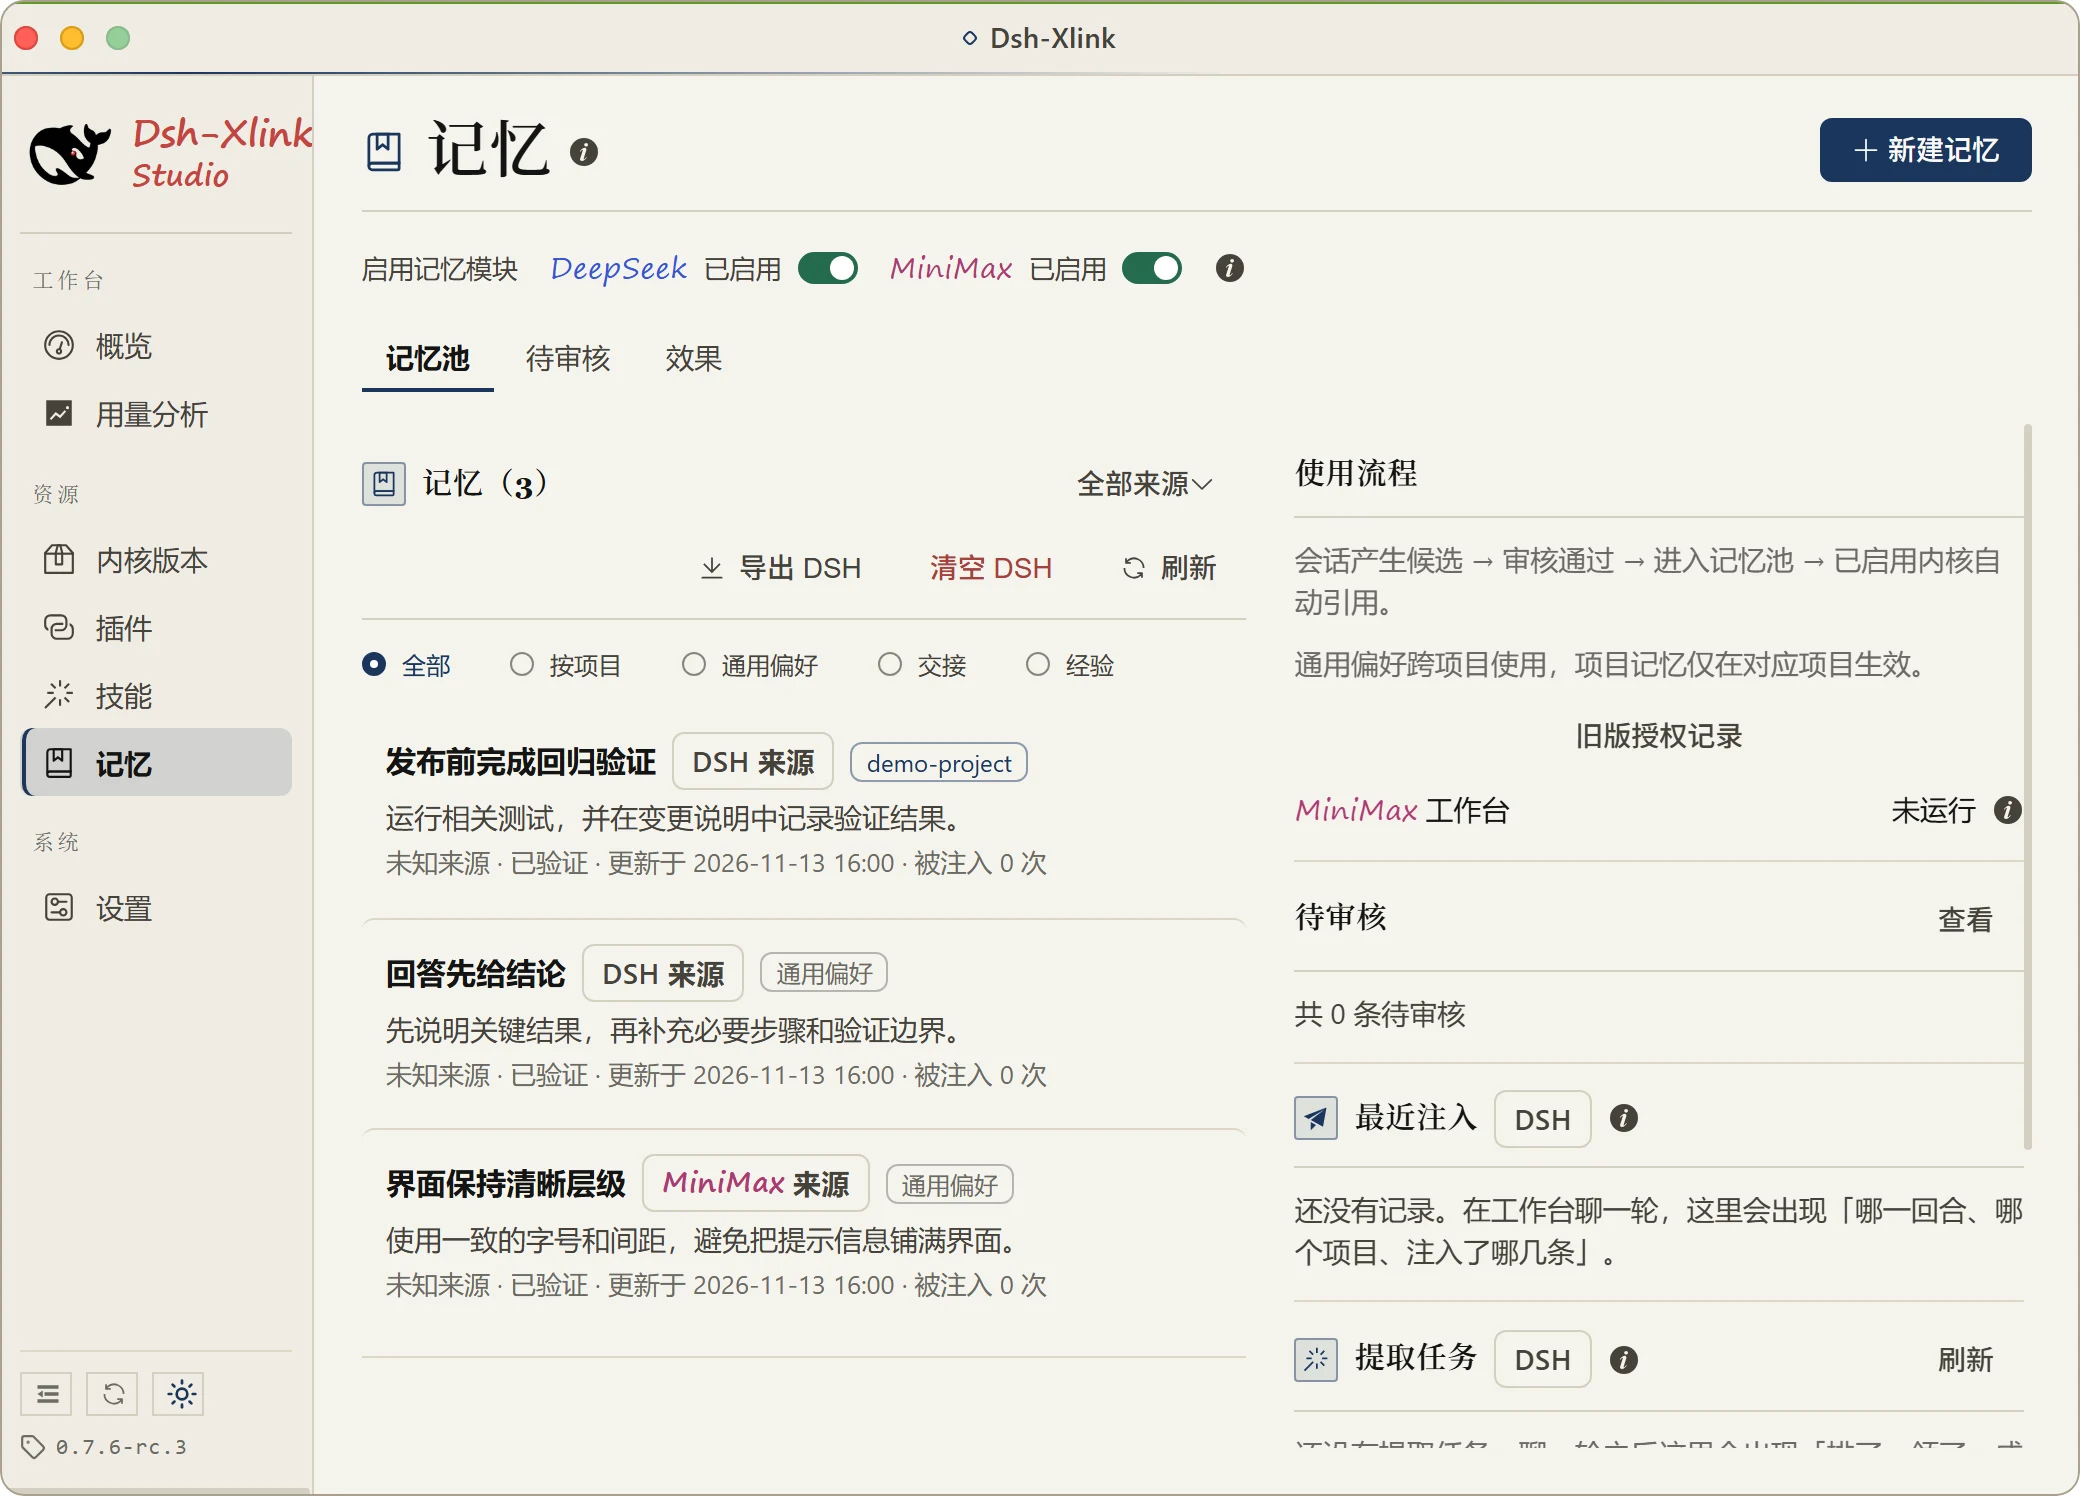
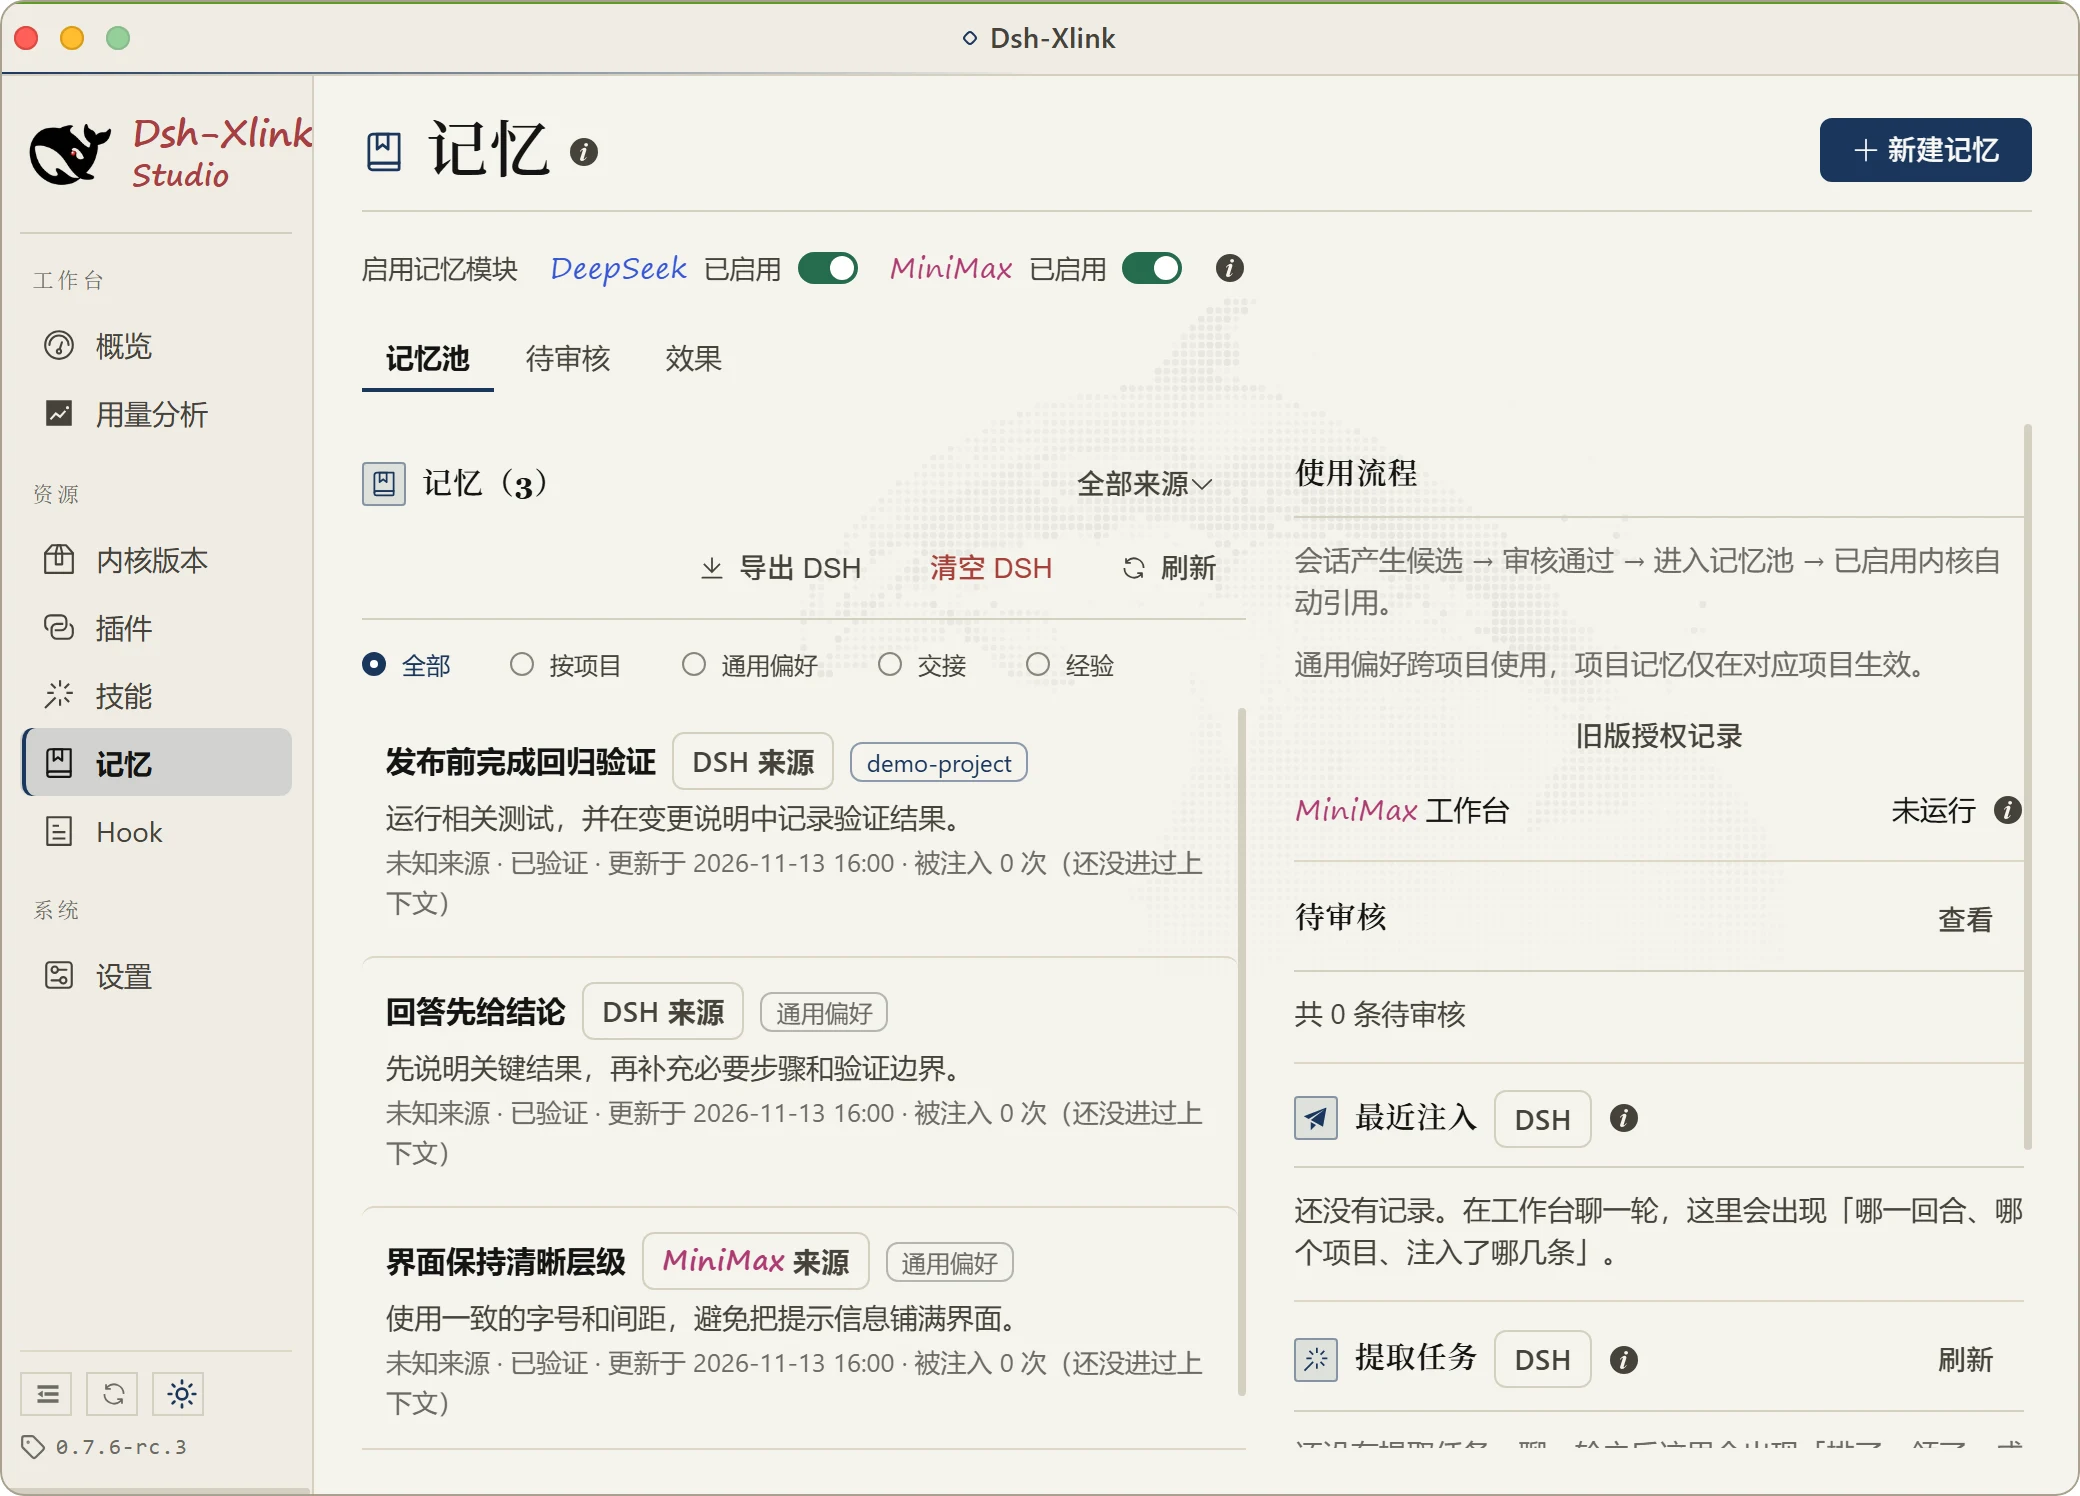
docs(website): 同步蓝墨夜航界面图与顶栏字标

diff --git a/website/style.css b/website/style.css
@@ -26,7 +26,7 @@ button, input { font: inherit; }
 .brand { display: inline-flex; align-items: center; gap: 10px; flex: 0 0 auto; }
 .brand img { width: 42px; height: 42px; }
 .brand strong, .brand small { display: block; }
-.brand strong { font-size: 17px; letter-spacing: -.04em; }
+.brand strong { color: #a83e43; font-size: 17px; letter-spacing: -.04em; }
 .brand small { margin-top: 3px; color: var(--muted); font: 8px var(--mono); letter-spacing: .09em; }
 .nav { display: flex; align-items: center; gap: 34px; margin-left: auto; font-size: 13px; font-weight: 600; }
 .nav a, .site-footer a { transition: color .2s; }

diff --git a/docs/README.md b/docs/README.md
@@ -29,7 +29,7 @@
 | 版本、tag、流水线、资产与发布后核验 | [发布手册](operations/release.md) |
 | MiniMax Code 第二工作台 | [统一工作台接入计划](architecture/multi-kernel/minimax-webui-integration-plan.md)、[开发交接](architecture/multi-kernel/minimax-webui-handoff-2026-11-07.md)（实验接入，验收未完成） |
 | Kami 风格七页改版与完整双主题 | [具体实施方案](ui/kami-implementation-2026-11/README.md)、[验收步骤](ui/kami-implementation-2026-11/acceptance.md)、[概念图纠错](ui/kami-implementation-2026-11/references.md)、[实施验证](ui/kami-implementation-2026-11/validation.md)（2026-11-10 设计合同；P1–P4 已实施，**实机验收未完成**） |
-| 蓝墨夜航：暗色主题与明暗字标 | [开发与验收稿](ui/blue-ink-night-design.md)（桌面端 UI 已实现；Windows / macOS 实机与官网七图待验收） |
+| 蓝墨夜航：暗色主题与明暗字标 | [开发与验收稿](ui/blue-ink-night-design.md)（桌面端 UI 与官网七图已同步；Windows / macOS 实机待验收） |
 | 多内核体验与共享能力界面 | [交互设计稿](ui/multi-kernel-interaction-draft.html)、[开发任务与验收](ui/multi-kernel-ui-development-plan.md)（代码与单测已实现，见该页 §6；**实机验收未完成**） |
 | 多内核评审整改与内核维度的 UI 重构 | [2026-11-07 交接](reviews/multi-kernel-review-and-ui-redesign-handoff-2026-11-07.md)（27 条整改 + UI 重构；**实机证据为零**） |
 | 附件检查、预检物料复用、退出清理与通知开发 | [后续开发计划](operations/development-followup-2026-11-plan.md)（该轮排除第二内核与全历史搜索） |

diff --git a/website/README.md b/website/README.md
@@ -8,7 +8,7 @@ python3 -m http.server 8080 --directory website
 
 然后访问 <http://localhost:8080>。`features.html` 是功能说明页；站点不依赖构建工具或外部资源。
 
-七张界面图基于 `ccb6250f8cc6f35ac9611d45441b15788d8c3329` 的真实 Vue 管理面板渲染：概览、插件和记忆各含明暗两种主题，另有 MiniMax 深色概览。窗口为 1040×748 CSS 像素、2× 缩放；使用公开虚构的桌面桥响应和示例数据，不读取用户数据。截图由 Windows Edge 模拟 macOS 外观生成，不是 macOS 原生截图或后端功能验收。两种主题使用同一组示例数据。复现步骤见 [截图脚本说明](../scripts/website-preview/README.md)，前后对比见 [网站改动记录](../docs/website-preview/README.md)。功能描述以当前源码与对应专题验收状态为准，未发布的 main 改动可能与下载包不同。
+七张界面图基于 `5810dc9c`（暗色「蓝墨夜航」主题）的真实 Vue 管理面板渲染：概览、插件和记忆各含明暗两种主题，另有 MiniMax 深色概览。窗口为 1040×748 CSS 像素、2× 缩放；使用公开虚构的桌面桥响应和示例数据，不读取用户数据。截图由 Windows Edge 模拟 macOS 外观生成，不是 macOS 原生截图或后端功能验收。两种主题使用同一组示例数据。复现步骤见 [截图脚本说明](../scripts/website-preview/README.md)，前后对比见 [网站改动记录](../docs/website-preview/README.md)。功能描述以当前源码与对应专题验收状态为准，未发布的 main 改动可能与下载包不同。
 
 检查主题对比交互：`node --test website/site.test.mjs`。
 

diff --git a/scripts/website-preview/README.md b/scripts/website-preview/README.md
@@ -1,6 +1,6 @@
 # 官网截图复现
 
-基线：`ccb6250f8cc6f35ac9611d45441b15788d8c3329`，界面版本 `0.7.6-rc.3`。
+基线：`5810dc9c`（暗色「蓝墨夜航」主题，2026-11-25），界面版本 `0.7.8-rc.3`；截图状态栏里的 `0.7.6-rc.3` 是固定样例数据。
 
 使用真实 `ui/src/main.js` 和 Vue 组件；Tauri 桥、运行状态、用量、插件及记忆均为公开虚构样例，不读取用户账户或记忆文件。Project Helper 是虚构自装插件。截图采用 macOS UI 用户代理，来自 Windows 上的 Edge 浏览器渲染，**不是 macOS 原生实机截图，也不是后端运行验收**。
 
@@ -19,4 +19,4 @@ node scripts/website-preview/capture.mjs "theme=dark&panel=记忆" website/asset
 
 输出为 1040 × 748 CSS 像素、2x WebP。按顺序执行，脚本占用本地 38123 / 39333 端口。可用 `BROWSER_EXECUTABLE` 指定已有 Chromium 系浏览器，`PREVIEW_CDP_PORT` 更换调试端口。不要指向个人浏览器 profile。初次样例变更应检查截图和控制台，不把通过视觉截图解释为模型、原生窗口或插件能力验证。
 
-Windows Edge 验证：网站375、768、1440宽度无横向溢出；图片加载正常；明暗图片切换、原图链接同步、放大、Escape关闭、焦点恢复和恢复滚动通过。网站5项单元测试通过。未做 macOS 原生运行或真实模型请求。
+Windows Edge 验证：网站375、768、1440宽度无横向溢出；图片加载正常；明暗图片切换、原图链接同步、放大、Escape关闭、焦点恢复和恢复滚动通过。网站6项单元测试通过。未做 macOS 原生运行或真实模型请求。

diff --git a/docs/ui/blue-ink-night-design.md b/docs/ui/blue-ink-night-design.md
@@ -1,6 +1,6 @@
 # Dsh-Xlink 暗色主题「蓝墨夜航」开发与验收稿
 
-**状态：桌面端 UI 已实现（2026-11-25）；Windows / macOS 实机与官网七图待验收。** 本稿定义桌面管理面板视觉和官网产品展示的同步要求。关联：[Kami 七页设计合同](kami-implementation-2026-11/README.md) · [品牌资源规范](icon-design.md) · [窗口主题边界](../architecture/window-architecture.md#主题按窗口内容选择作用域)。
+**状态：桌面端 UI 与官网七图已按同一源码重出（2026-11-25）；Windows / macOS 实机验收待完成。** 本稿定义桌面管理面板视觉和官网产品展示的同步要求。关联：[Kami 七页设计合同](kami-implementation-2026-11/README.md) · [品牌资源规范](icon-design.md) · [窗口主题边界](../architecture/window-architecture.md#主题按窗口内容选择作用域)。
 
 ![蓝墨夜航概览与明暗品牌红对照](blue-ink-night-preview.webp)
 

diff --git a/docs/website-preview/README.md b/docs/website-preview/README.md
@@ -2,6 +2,8 @@
 
 基线：`ccb6250f8cc6f35ac9611d45441b15788d8c3329`（2026-11-13）。
 
+> 2026-11-25：随暗色「蓝墨夜航」主题重出七张界面图（源码 `5810dc9c`），顶栏英文主字标改为朱砂红 `#A83E43`；截图仍来自 Windows Edge 模拟 macOS 外观，未做桌面实机验收。
+
 ## 关键修改
 
 - 重拍概览与 MiniMax 截图，新增插件、记忆的明暗主题截图，共七张。
